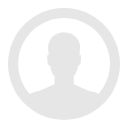
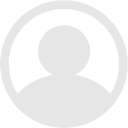
用户中心

diff --git a/bali-auth-server/src/main/resources/templates/personal/avatar.html b/bali-auth-server/src/main/resources/templates/personal/avatar.html
@@ -9,9 +9,49 @@
     <title>个人中心</title>
     <meta name="viewport" content="width=device-width, initial-scale=1, maximum-scale=1">
     <th:block th:replace="fragments/css/css-import::core-css"/>
+    <link rel="stylesheet" th:href="@{/webjars/cropperjs/1.5.6/dist/cropper.min.css}">
+    <link rel="stylesheet" th:href="@{/static/css/personal/avatar.css}">
 </head>
 <body class="bali-content">
-
+<div class="layui-fluid">
+    <div class="layui-row layui-col-space15">
+        <div class="layui-col-sm12 layui-col-md12">
+            <button type="button" class="layui-btn" id="upload">
+                <i class="layui-icon">&#xe67c;</i>上传图片
+            </button>
+        </div>
+    </div>
+    <div class="layui-row layui-col-space15">
+        <div class="layui-col-sm7 layui-col-md7">
+            <div class="img-container">
+                <img id="avatar_image" src="/static/images/user_cropper.png" alt="Picture">
+            </div>
+        </div>
+        <div class="layui-col-sm5 layui-col-md5">
+            <div class="docs-preview clearfix">
+                <div class="img-preview preview-lg"></div>
+                <div class="img-preview preview-md"></div>
+            </div>
+        </div>
+    </div>
+    <div class="layui-row layui-col-space15">
+        <div class="layui-col-md4">
+            <button type="button" class="layui-btn">
+                向左旋转
+            </button>
+            <button type="button" class="layui-btn">
+                向右旋转
+            </button>
+        </div>
+        <div class="layui-col-md4 layui-col-md-offset4" style="direction: rtl">
+            <button type="button" class="layui-btn">
+                保存
+            </button>
+        </div>
+    </div>
+</div>
 </body>
 <th:block th:replace="fragments/js/js-import::core-js"/>
+<script th:src="@{/webjars/cropperjs/1.5.6/dist/cropper.min.js}"></script>
+<script th:src="@{/static/js/pages/personal/avatar.js}"></script>
 </html>

diff --git a/bali-auth-server/src/main/resources/static/js/pages/personal/avatar.js b/bali-auth-server/src/main/resources/static/js/pages/personal/avatar.js
@@ -1,0 +1,55 @@
+layui.use('upload', function(){
+    let upload = layui.upload;
+    let container = document.querySelector('.img-container');
+    let image = container.getElementsByTagName('img').item(0);
+    let options = {
+        aspectRatio: 1,
+        preview: '.img-preview',
+        ready: function (e) {
+            console.log(e.type);
+        },
+        cropstart: function (e) {
+            console.log(e.type, e.detail.action);
+        },
+        cropmove: function (e) {
+            console.log(e.type, e.detail.action);
+        },
+        cropend: function (e) {
+            console.log(e.type, e.detail.action);
+        },
+        crop: function (e) {
+            console.log(e);
+        },
+        zoom: function (e) {
+            console.log(e.type, e.detail.ratio);
+        }
+    };
+    let cropper = new Cropper(image, options);
+
+
+    upload.render({
+        elem: '#upload'
+        ,auto: false
+        ,done: function(res){
+            //上传完毕回调
+        }
+        ,error: function(){
+            //请求异常回调
+        },
+        choose: function(obj){
+            obj.preview(function(index, file, result){
+                image.src = URL.createObjectURL(file);
+                if (cropper) {
+                    cropper.destroy();
+                }
+                cropper = new Cropper(image, options);
+                //obj.resetFile(index, file, '123.jpg'); //重命名文件名，layui 2.3.0 开始新增
+
+                //这里还可以做一些 append 文件列表 DOM 的操作
+
+                //obj.upload(index, file); //对上传失败的单个文件重新上传，一般在某个事件中使用
+                //delete files[index]; //删除列表中对应的文件，一般在某个事件中使用
+            });
+        }
+    });
+});

diff --git a/bali-auth-server/src/main/resources/templates/user/index.html b/bali-auth-server/src/main/resources/templates/user/index.html
@@ -41,7 +41,7 @@
                                 {{#  if(d.userAvatar){ }}
                                     <div><img src="{{d.userAvatar}}" class="layui-nav-img"> {{d.userName}}</div>
                                 {{#  } else { }}
-                                    <div><img src="/static/images/user_default_black.png" class="layui-nav-img"> {{d.userName}}</div>
+                                    <div><img src="/static/images/user_default.png" class="layui-nav-img"> {{d.userName}}</div>
                                 {{#  } }}
                             {{#  } else { }}
                             <span>{{d.nickName}}</span>

diff --git a/bali-auth-server/src/main/resources/static/css/personal/avatar.css b/bali-auth-server/src/main/resources/static/css/personal/avatar.css
@@ -1,0 +1,42 @@
+.img-container {
+    margin-bottom: 1rem;
+    width: 100%;
+    height: 400px;
+}
+
+.img-container, .img-preview {
+    background-color: #f7f7f7;
+    text-align: center;
+}
+
+.img-preview {
+    float: left;
+    margin-bottom: 0.5rem;
+    margin-right: 0.5rem;
+    overflow: hidden;
+}
+
+.img-preview > img {
+    max-height: 100%;
+}
+
+.preview-lg {
+    height: 13rem;
+    width: 13rem;
+}
+
+.preview-md {
+    height: 6.5rem;
+    width: 6.5rem;
+}
+
+.preview-sm {
+    height: 3rem;
+    width: 3rem;
+}
+
+.preview-xs {
+    height: 1.125rem;
+    margin-right: 0;
+    width: 2rem;
+}

diff --git a/bali-auth-server/src/main/resources/static/js/pages/personal/index.js b/bali-auth-server/src/main/resources/static/js/pages/personal/index.js
@@ -6,7 +6,7 @@ layui.use(['layer'], function () {
         layer.open({
             type: 2,
             title: '上传头像',
-            area: ['50%', '50%'],
+            area: ['1000px', '700px'],
             content: '/personal/avatar/'
             , yes: function (index, layero) {
                 return false;
